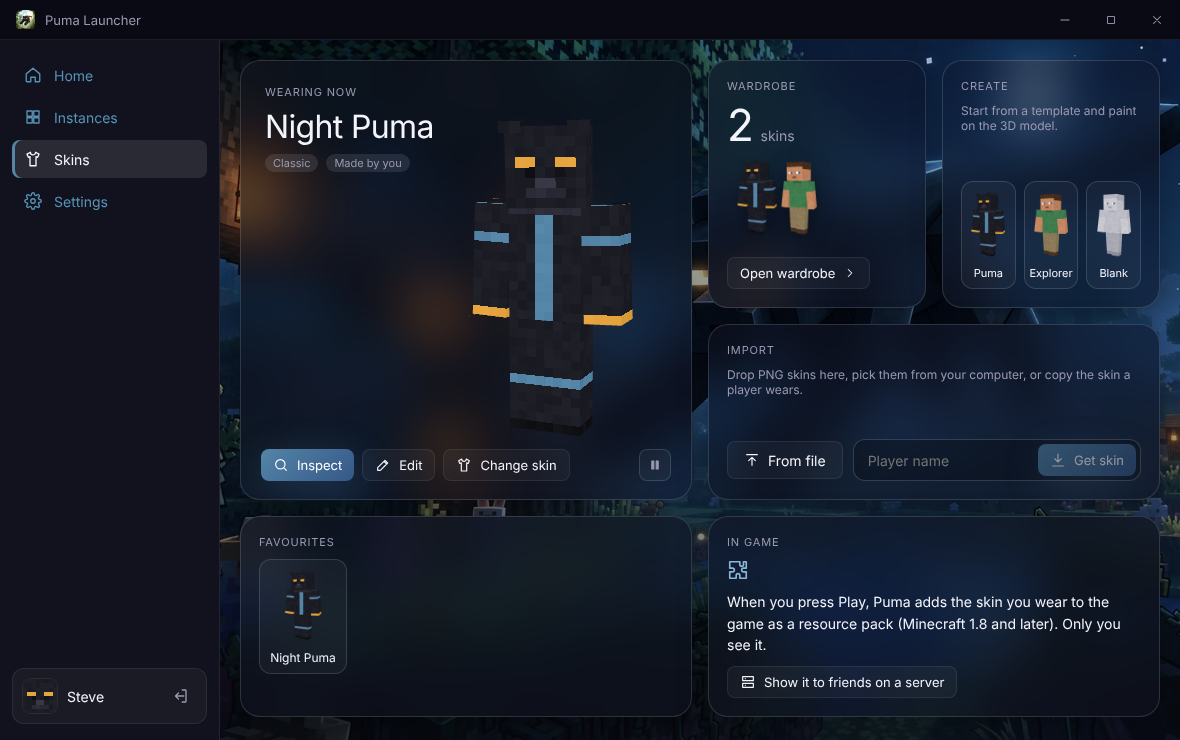
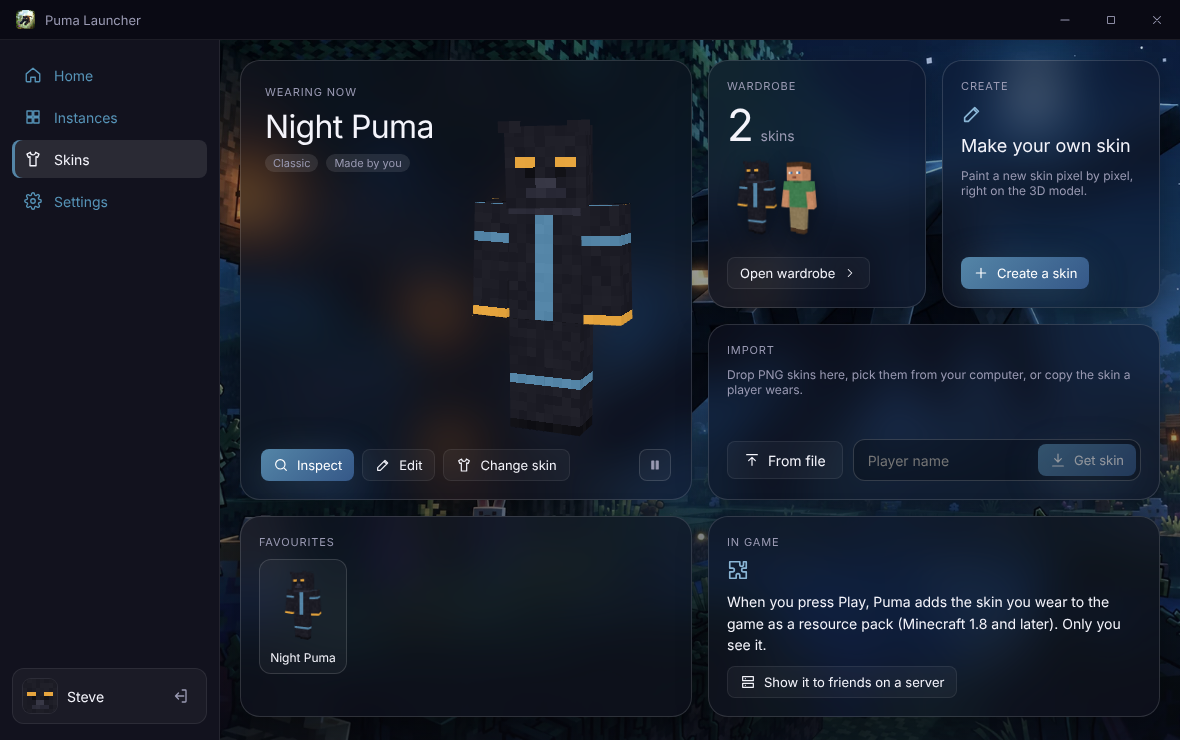
Call offline accounts "Launcher account" and make the Skins Create card a clear call to action
- Settings lists an offline account as "Launcher account" ("Account del launcher").
- The Create card on the Skins page drops the three template thumbnails for a title
  ("Make your own skin"), a one-line explanation and a "Create a skin" button that opens
  the editor.

Claude-Session: https://claude.ai/code/session_01DtT8h4zo1iGH8dAZUAaLin

Changed region(s): [[0.7932, 0.1243, 0.9763, 0.4041]]

diff --git a/src/renderer/src/styles/skins.css b/src/renderer/src/styles/skins.css
@@ -44,16 +44,16 @@
 .bento-count span { color: var(--text-muted); }
 .thumb-stack { display: flex; align-items: flex-end; height: 84px; padding-left: 2px; }
 .thumb-stack .skin-thumb { width: 56px; height: 84px; margin-right: -14px; filter: drop-shadow(0 6px 10px rgba(0, 0, 0, 0.35)); }
-.template-row { display: grid; grid-template-columns: repeat(3, minmax(0, 1fr)); gap: 8px; margin-top: auto; }
-.template-tile, .fav-tile {
+.bento-create-icon { color: var(--accent-text); }
+.bento-create-title { font-size: 18px; line-height: 1.25; }
+.bento-create-btn { align-self: flex-start; margin-top: auto; }
+.fav-tile {
   display: flex; flex-direction: column; align-items: center; gap: 4px; padding: 8px 4px; font-size: 12px;
   border-radius: var(--radius); background: var(--surface); border: 1px solid var(--glass-border);
   transition: border-color 0.15s, transform 0.15s, background 0.15s;
 }
-.template-tile:hover, .fav-tile:hover { background: var(--surface-hover); border-color: var(--border-strong); transform: translateY(-2px); }
-.template-tile { font-size: 11px; }
-.template-tile .skin-thumb { width: 48px; height: 72px; }
-.template-tile span, .fav-tile span { max-width: 100%; overflow: hidden; text-overflow: ellipsis; white-space: nowrap; }
+.fav-tile:hover { background: var(--surface-hover); border-color: var(--border-strong); transform: translateY(-2px); }
+.fav-tile span { max-width: 100%; overflow: hidden; text-overflow: ellipsis; white-space: nowrap; }
 .import-actions { display: flex; flex-wrap: wrap; align-items: center; gap: 10px; margin-top: auto; }
 .player-fetch { flex: 1; min-width: 240px; display: flex; gap: 6px; padding: 4px; border-radius: var(--radius); background: var(--input-bg); border: 1px solid var(--border-strong); }
 .player-fetch input { flex: 1; min-width: 0; padding: 0 10px; background: none; border: 0; outline: none; color: var(--text); }
@@ -247,5 +247,5 @@
 
 /* Less motion (see app.css): skins don't lift or grow on hover */
 @media (prefers-reduced-motion: reduce) {
-  .template-tile:hover, .fav-tile:hover, .skin-card:hover, .skin-card:hover .skin-cover img { transform: none; }
+  .fav-tile:hover, .skin-card:hover, .skin-card:hover .skin-cover img { transform: none; }
 }

diff --git a/src/renderer/src/pages/Skins.tsx b/src/renderer/src/pages/Skins.tsx
@@ -8,7 +8,7 @@ import { ServerSkinDialog } from '../skins/ServerSkin'
 import { SkinViewer } from '../skins/SkinViewer'
 import { SkinWardrobe } from '../skins/SkinWardrobe'
 import type { Animation } from '../skins/player'
-import { TEMPLATES, type TemplateId } from '../skins/templates'
+import type { TemplateId } from '../skins/templates'
 import { useStore } from '../store'
 import { prefersReducedMotion } from '../theme'
 
@@ -164,15 +164,12 @@ function SkinsHome({ go, actions }: { go: (v: SkinView) => void; actions: SkinAc
 
         <section className="bento-card glass bento-create">
           <span className="badge">{t('skins.create')}</span>
+          <Icon name="pencil" size={22} className="bento-create-icon" />
+          <strong className="bento-create-title">{t('skins.createTitle')}</strong>
           <p className="muted small">{t('skins.createHint')}</p>
-          <div className="template-row">
-            {TEMPLATES.map((id) => (
-              <button key={id} className="template-tile" onClick={() => go({ kind: 'editor', template: id, back: here })}>
-                <SkinThumb skin={templateSkin(id)} />
-                <span>{t(`skins.template.${id}`)}</span>
-              </button>
-            ))}
-          </div>
+          <button className="btn btn-primary btn-sm bento-create-btn" onClick={() => go({ kind: 'editor', template: 'puma', back: here })}>
+            <Icon name="plus" size={16} /> {t('skins.createButton')}
+          </button>
         </section>
 
         <section className="bento-card glass bento-import">

diff --git a/src/shared/i18n/it.ts b/src/shared/i18n/it.ts
@@ -34,7 +34,7 @@ export const it: Messages = {
   'account.microsoft': 'Microsoft',
   'account.microsoftAccount': 'Account Microsoft',
   'account.offline': 'Offline',
-  'account.offlineAccount': 'Account offline',
+  'account.offlineAccount': 'Account del launcher',
   'account.serverAccount': 'Account {server}',
 
   // Welcome / sign-in
@@ -300,7 +300,9 @@ export const it: Messages = {
   'skins.wardrobeEmpty': 'Il guardaroba è vuoto. Crea o importa una skin per iniziare.',
   'skins.openWardrobe': 'Apri il guardaroba',
   'skins.create': 'Crea',
-  'skins.createHint': 'Parti da un modello e dipingi sul personaggio in 3D.',
+  'skins.createTitle': 'Crea la tua skin',
+  'skins.createHint': 'Dipingi una nuova skin pixel per pixel, direttamente sul personaggio in 3D.',
+  'skins.createButton': 'Crea una skin',
   'skins.template.puma': 'Puma',
   'skins.template.explorer': 'Esploratore',
   'skins.template.blank': 'Vuota',

diff --git a/src/shared/i18n/en.ts b/src/shared/i18n/en.ts
@@ -33,7 +33,7 @@ export const en = {
   'account.microsoft': 'Microsoft',
   'account.microsoftAccount': 'Microsoft account',
   'account.offline': 'Offline',
-  'account.offlineAccount': 'Offline account',
+  'account.offlineAccount': 'Launcher account',
   'account.serverAccount': '{server} account',
 
   // Welcome / sign-in
@@ -298,7 +298,9 @@ export const en = {
   'skins.wardrobeEmpty': 'Your wardrobe is empty. Make a skin or import one to start.',
   'skins.openWardrobe': 'Open wardrobe',
   'skins.create': 'Create',
-  'skins.createHint': 'Start from a template and paint on the 3D model.',
+  'skins.createTitle': 'Make your own skin',
+  'skins.createHint': 'Paint a new skin pixel by pixel, right on the 3D model.',
+  'skins.createButton': 'Create a skin',
   'skins.template.puma': 'Puma',
   'skins.template.explorer': 'Explorer',
   'skins.template.blank': 'Blank',

diff --git a/README.md b/README.md
@@ -107,7 +107,7 @@ list opens.
 
 ### 7. Wear a skin (optional)
 
-Open **Skins**. Pick a skin in the **Wardrobe** and press **+** to wear it, or make your own: start from a template
+Open **Skins**. Pick a skin in the **Wardrobe** and press **+** to wear it, or make your own: press **Create a skin**
 under **Create** and paint it on the 3D model. You can also drop PNG skins onto the page, pick them with **From file**,
 or copy the skin any Java Edition player wears by typing their name.
 
